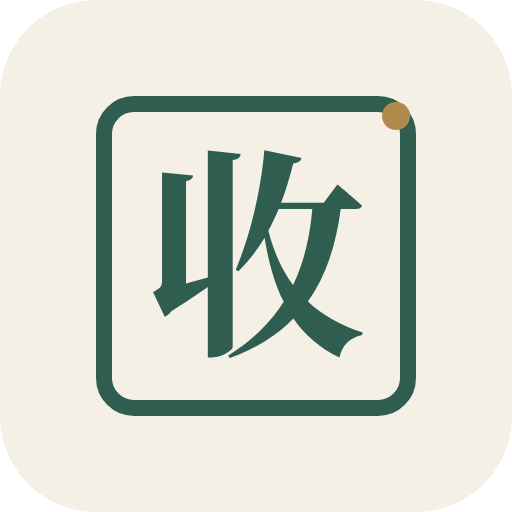
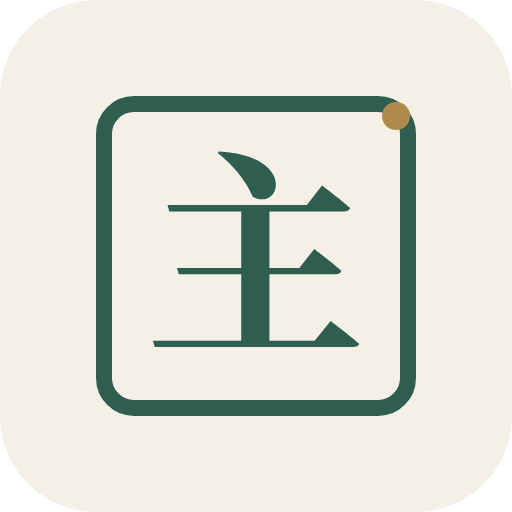
rename: 产品名改为「找回主体性」（v0.1.1）

Changed region(s): [[0.2812, 0.2812, 0.7188, 0.7188]]

diff --git a/js/app.js b/js/app.js
@@ -1,4 +1,4 @@
-/* 「把自己收回来」V0.1 —— 纯前端，本地保存，无后端 */
+/* 「找回主体性」V0.1 —— 纯前端，本地保存，无后端 */
 (function () {
   "use strict";
   var C = window.SHOUHUI_CONTENT;
@@ -159,7 +159,7 @@
     arrow: '<svg viewBox="0 0 24 24" aria-hidden="true"><path d="M5 12h13M13 6.5 18.5 12 13 17.5"/></svg>',
     save: '<svg viewBox="0 0 24 24" aria-hidden="true"><path d="M12 4v11M7 10.5l5 5 5-5M5 19.5h14"/></svg>',
     redo: '<svg viewBox="0 0 24 24" aria-hidden="true"><path d="M5 12a7 7 0 1 0 2.1-5"/><path d="M5 4.5V9h4.5"/></svg>',
-    seal: '<svg class="seal" viewBox="0 0 40 40" aria-hidden="true"><rect x="3" y="3" width="34" height="34" rx="4"/><text x="20" y="27.6" text-anchor="middle">收</text></svg>'
+    seal: '<svg class="seal" viewBox="0 0 40 40" aria-hidden="true"><rect x="3" y="3" width="34" height="34" rx="4"/><text x="20" y="27.6" text-anchor="middle">主</text></svg>'
   };
   function stateButtons() {
     return '<div class="states">' + C.ui.states.map(function (s, i) {
@@ -344,7 +344,7 @@
     window.ShouhuiExport.render(a, C).then(function (blob) {
       exporting = false; hideToast();
       var url = URL.createObjectURL(blob);
-      var name = ((a.nick ? a.nick + "-" : "") + "把自己收回来-" + a.date.replace(/-/g, "") + ".png").replace(/\s+/g, "");
+      var name = ((a.nick ? a.nick + "-" : "") + "找回主体性-" + a.date.replace(/-/g, "") + ".png").replace(/\s+/g, "");
       if (previewMode()) return showPreview(url);
       var l = document.createElement("a"); l.href = url; l.download = name; l.rel = "noopener";
       document.body.appendChild(l); l.click(); document.body.removeChild(l);
@@ -356,7 +356,7 @@
     var ov = document.createElement("div");
     ov.className = "overlay"; ov.setAttribute("role", "dialog"); ov.setAttribute("aria-modal", "true"); ov.setAttribute("aria-label", "保存图片");
     ov.innerHTML = '<div class="sheet"><p class="sheet-tip"><b>长按下面的图片</b>，选择「保存到相册」或「保存图片」。</p>' +
-      '<div class="sheet-img"><img src="' + url + '" alt="把自己收回来 · 结果长图"></div>' +
+      '<div class="sheet-img"><img src="' + url + '" alt="找回主体性 · 结果长图"></div>' +
       '<button type="button" class="btn primary wide" data-close>关闭</button></div>';
     document.body.appendChild(ov); document.body.classList.add("noscroll");
     function close() { if (!ov.parentNode) return; ov.parentNode.removeChild(ov); document.body.classList.remove("noscroll"); URL.revokeObjectURL(url); document.removeEventListener("keydown", onKey); }
@@ -497,7 +497,7 @@
 
   /* ---------------- PWA ---------------- */
   if ("serviceWorker" in navigator && location.protocol === "https:") {
-    window.addEventListener("load", function () { navigator.serviceWorker.register("sw.js?v=0.1.0").catch(function () {}); });
+    window.addEventListener("load", function () { navigator.serviceWorker.register("sw.js?v=0.1.1").catch(function () {}); });
   }
 
   /* 只读调试/测试入口（不含任何网络能力） */

diff --git a/index.html b/index.html
@@ -3,19 +3,24 @@
 <head>
 <meta charset="utf-8">
 <meta name="viewport" content="width=device-width, initial-scale=1, viewport-fit=cover">
-<title>把自己收回来</title>
+<title>找回主体性</title>
 <meta name="description" content="一个帮助你减少内耗、看清边界、找回主动权的小练习。">
+<meta property="og:title" content="找回主体性">
+<meta property="og:description" content="一个帮助你减少内耗、看清边界、找回主动权的小练习。">
+<meta property="og:type" content="website">
+<meta property="og:url" content="https://xiangshu3721.github.io/shouhui/">
+<meta property="og:locale" content="zh_CN">
 <meta name="theme-color" content="#f5f0e6">
 <meta name="apple-mobile-web-app-capable" content="yes">
 <meta name="mobile-web-app-capable" content="yes">
 <meta name="apple-mobile-web-app-status-bar-style" content="default">
-<meta name="apple-mobile-web-app-title" content="收回来">
+<meta name="apple-mobile-web-app-title" content="主体性">
 <meta name="format-detection" content="telephone=no">
-<link rel="manifest" href="manifest.webmanifest?v=0.1.0">
-<link rel="icon" type="image/svg+xml" href="icons/icon.svg?v=0.1.0">
-<link rel="icon" type="image/png" sizes="192x192" href="icons/icon-192.png?v=0.1.0">
-<link rel="apple-touch-icon" href="icons/apple-touch-icon.png?v=0.1.0">
-<link rel="stylesheet" href="css/style.css?v=0.1.0">
+<link rel="manifest" href="manifest.webmanifest?v=0.1.1">
+<link rel="icon" type="image/svg+xml" href="icons/icon.svg?v=0.1.1">
+<link rel="icon" type="image/png" sizes="192x192" href="icons/icon-192.png?v=0.1.1">
+<link rel="apple-touch-icon" href="icons/apple-touch-icon.png?v=0.1.1">
+<link rel="stylesheet" href="css/style.css?v=0.1.1">
 </head>
 <body>
 <div class="shell">
@@ -35,8 +40,8 @@
   </nav>
 </div>
 <noscript><p class="noscript">需要开启 JavaScript 才能使用。</p></noscript>
-<script src="js/content.js?v=0.1.0"></script>
-<script src="js/export.js?v=0.1.0"></script>
-<script src="js/app.js?v=0.1.0"></script>
+<script src="js/content.js?v=0.1.1"></script>
+<script src="js/export.js?v=0.1.1"></script>
+<script src="js/app.js?v=0.1.1"></script>
 </body>
 </html>

diff --git a/js/content.js b/js/content.js
@@ -1,5 +1,5 @@
 /*
- * 「把自己收回来」V0.1 —— 全部文案集中在这里，改字只改这个文件。
+ * 「找回主体性」V0.1 —— 全部文案集中在这里，改字只改这个文件。
  *
  * 标注说明：
  *   src: "user"   = 用户原文（2026-10-11 规格），一字不改
@@ -12,7 +12,7 @@
   var C = {};
 
   C.app = {
-    name: "把自己收回来",                                                     // user
+    name: "找回主体性",                                                     // user
     subtitle: "一个帮助你减少内耗、看清边界、找回主动权的小练习。",               // user
     credit: "内容受到阿德勒个体心理学及《被讨厌的勇气》相关思想启发。",           // user
     version: "0.1"

diff --git a/js/export.js b/js/export.js
@@ -86,7 +86,7 @@
       } else if (o.t === "seal") {
         var sx = W / 2 - 22, sy = Y0 + o.y;
         c.strokeStyle = COL.green; c.lineWidth = 2; roundRect(c, sx, sy, 44, 44, 5); c.stroke();
-        c.fillStyle = COL.green; c.font = "600 24px " + SERIF; c.textAlign = "center"; c.fillText("收", W / 2, sy + 31);
+        c.fillStyle = COL.green; c.font = "600 24px " + SERIF; c.textAlign = "center"; c.fillText("主", W / 2, sy + 31);
       } else if (o.t === "rule") {
         c.strokeStyle = COL.line; c.lineWidth = 1; c.beginPath(); c.moveTo(X0, Y0 + o.y + 0.5); c.lineTo(W - X0, Y0 + o.y + 0.5); c.stroke();
         c.fillStyle = COL.gold; c.beginPath(); c.arc(W / 2, Y0 + o.y + 0.5, 3, 0, Math.PI * 2); c.fill();

diff --git a/sw.js b/sw.js
@@ -1,5 +1,5 @@
 /* 极简离线缓存：页面走网络优先，带 ?v= 的静态资源走缓存优先。升级时改 VERSION。 */
-var VERSION = "0.1.0";
+var VERSION = "0.1.1";
 var CACHE = "shouhui-" + VERSION;
 var ASSETS = ["./", "index.html", "css/style.css?v=" + VERSION, "js/content.js?v=" + VERSION, "js/export.js?v=" + VERSION,
   "js/app.js?v=" + VERSION, "manifest.webmanifest?v=" + VERSION, "icons/icon.svg?v=" + VERSION,

diff --git a/README.md b/README.md
@@ -1,4 +1,4 @@
-# 把自己收回来 · V0.1
+# 找回主体性 · V0.1
 
 一个帮助你减少内耗、看清边界、找回主动权的小练习。
 
